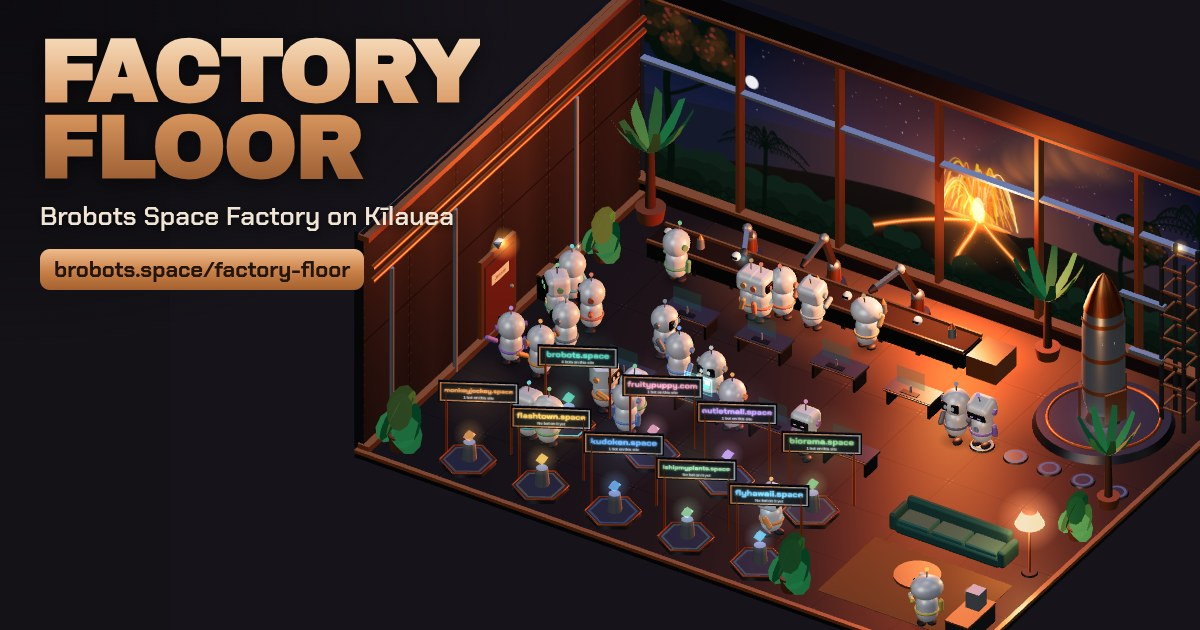
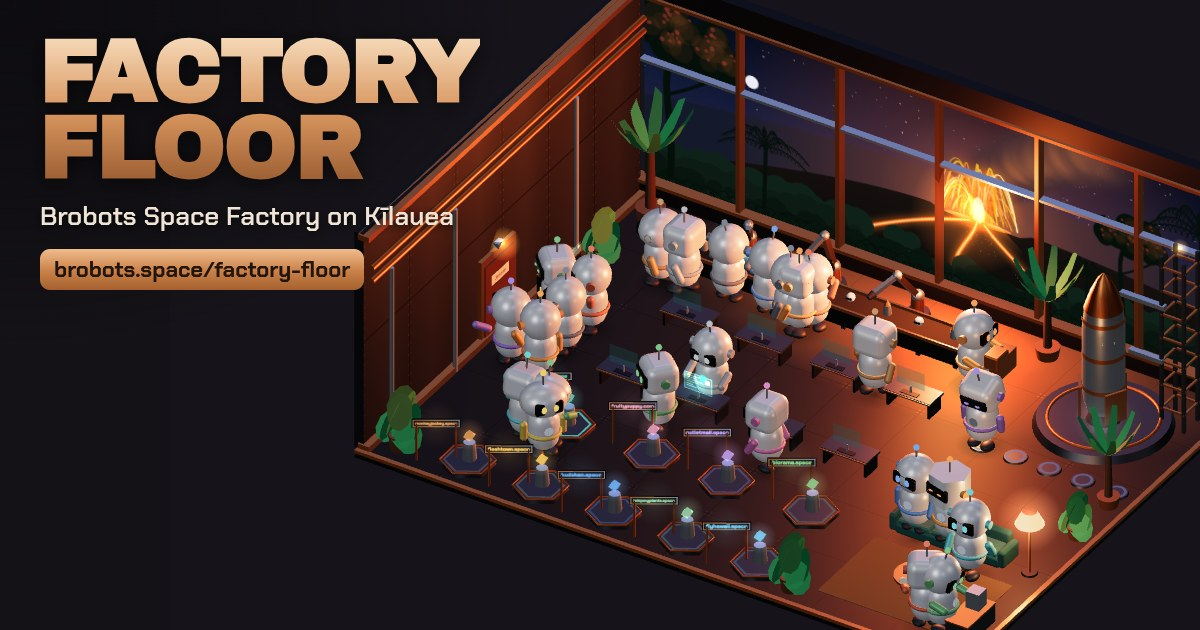
Factory floor: bigger bots, tags on hover or tap, small side signs, no scene note

Changed region(s): [[0.3392, 0.3317, 0.8633, 1.0]]

diff --git a/ff/office.js b/ff/office.js
@@ -537,15 +537,14 @@ const BAY_POS = [[-9.05,5.6],[-4.5,5.6],[-.5,5.6],[4.05,5.6],[-11.4,10.4],[-7.5,
 const BAYS = [];
 const bayGeo = new THREE.CylinderGeometry(1.25,1.32,.22,6), bayRingGeo = new THREE.RingGeometry(1.02,1.14,6), modelGeo = new THREE.OctahedronGeometry(.32,0);
 function signTex(domain, accent, line2){
-  return canvasTex(768,224,(g,w,h)=>{
+  return canvasTex(768,150,(g,w,h)=>{
     g.fillStyle = '#121418'; g.fillRect(0,0,w,h);
     const lg = g.createLinearGradient(0,0,w,0); lg.addColorStop(0,'#c27a44'); lg.addColorStop(.5,'#e0a273'); lg.addColorStop(1,'#a9afb7');
     g.strokeStyle = lg; g.lineWidth = 10; g.strokeRect(5,5,w-10,h-10);
     g.fillStyle = accent; g.shadowColor = accent; g.shadowBlur = 22;
     let fs = 92; g.font = `700 ${fs}px "Chakra Petch", "Archivo", sans-serif`;
     while (g.measureText(domain).width > w - 70 && fs > 40){ fs -= 4; g.font = `700 ${fs}px "Chakra Petch", "Archivo", sans-serif`; }
-    g.textAlign = 'center'; g.textBaseline = 'middle'; g.fillText(domain, w/2, h*.43);
-    g.shadowBlur = 0; g.fillStyle = '#c9ced6'; g.font = '500 40px "Chakra Petch", "Archivo", sans-serif'; g.fillText(line2, w/2, h*.79);
+    g.textAlign = 'center'; g.textBaseline = 'middle'; g.fillText(domain, w/2, h*.53);
   });
 }
 function bayLine(n){ return n ? (n === 1 ? '1 bot on this site' : n + ' bots on this site') : 'No bot on it yet'; }
@@ -564,16 +563,17 @@ function buildBays(sites){
     const halo = glowSprite(acc.getHex(), 1.5, .45); halo.position.set(0,1.55,-.15); g.add(halo);
     // sign on two copper posts at the back of the bay
     // turned a little toward the viewer so the domain reads from the camera
-    const sg = new THREE.Group(); sg.position.set(0,0,-.95); sg.rotation.y = .5; if (PAGE) sg.scale.setScalar(1.18); g.add(sg);
-    for (const sx of [-1.25,1.25]) cyl(.05,.05,2.9,M.copper,sx,1.45,-.02,8,sg);
+    // small sign low on the far left corner so it never covers the bots at the bay
+    const sg = new THREE.Group(); sg.position.set(-1.35,0,z < 8 ? -.55 : .55); sg.rotation.y = .55; sg.scale.setScalar(.72); g.add(sg);
+    for (const sx of [-1.25,1.25]) cyl(.07,.07,2.9,M.copper,sx,1.45,-.02,8,sg);
     const n = (s.bots || []).length;
-    const sign = new THREE.Mesh(new THREE.PlaneGeometry(3.0,.88), new THREE.MeshBasicMaterial({map:signTex(s.domain, s.accent || '#a9afb7', bayLine(n)), toneMapped:false}));
+    const sign = new THREE.Mesh(new THREE.PlaneGeometry(3.0,.59), new THREE.MeshBasicMaterial({map:signTex(s.domain, s.accent || '#a9afb7', bayLine(n)), toneMapped:false}));
     sign.position.set(0,2.9,.03); sg.add(sign);
-    const back = new THREE.Mesh(new THREE.BoxGeometry(3.12,1.0,.06), M.steel); back.position.set(0,2.9,-.02); sg.add(back);
-    const sglow = glowSprite(acc.getHex(), 3.4, .18); sglow.position.set(0,2.9,.2); sg.add(sglow);
+    const back = new THREE.Mesh(new THREE.BoxGeometry(3.12,.7,.06), M.steel); back.position.set(0,2.9,-.02); sg.add(back);
+    const sglow = glowSprite(acc.getHex(), 3.0, .14); sglow.position.set(0,2.9,.2); sg.add(sglow);
     // work spots on the aisle side, reached from the aisle lane
     const sideZ = z < 8 ? 1.65 : -1.65, face = z < 8 ? Math.PI : 0;
-    const slots = [-1.05, 0, 1.05].map(o => ({bay:s.domain, who:null, spot:{x:x+o, z:z+sideZ, face, pre:{x:x+o, z:8.0}}}));
+    const slots = [-1.2, 0, 1.2].map(o => ({bay:s.domain, who:null, spot:{x:x+o, z:z+sideZ, face, pre:{x:x+o, z:8.0}}}));
     BAYS.push({domain:s.domain, x, z, g, ring, model, sign, slots, n});
   });
 }
@@ -583,6 +583,7 @@ function syncBays(){
 }
 
 /* ---------------- robots ---------------- */
+const BOT_S = 1.9;
 const headGeos = {
   ball: new THREE.SphereGeometry(.5,22,16),
   box: new RoundedBoxGeometry(.95,.8,.85,3,.24),
@@ -599,7 +600,7 @@ const shadowMat = new THREE.MeshBasicMaterial({map:glowTex, color:0x000000, tran
 const bots = new Map();
 function makeBot(b){
   const c = AV[b.color] ?? AV.gray;
-  const g = new THREE.Group(); g.scale.setScalar(1.3); const rig = new THREE.Group(); g.add(rig);
+  const g = new THREE.Group(); g.scale.setScalar(BOT_S); const rig = new THREE.Group(); g.add(rig);
   const sh = new THREE.Mesh(new THREE.PlaneGeometry(1.3,1.3), shadowMat); sh.rotation.x = -Math.PI/2; sh.position.y = .02; g.add(sh);
   const body = new THREE.Mesh(bodyGeo, M.botBody); body.position.y = .8; rig.add(body);
   const belt = new THREE.Mesh(new THREE.TorusGeometry(.41,.05,6,24), trim(c)); belt.rotation.x = Math.PI/2; belt.position.y = .72; rig.add(belt);
@@ -754,6 +755,19 @@ canvas.addEventListener('pointerdown', e => {
   const hit = ray.intersectObjects([...bots.values()].map(b => b.g), true).find(h => h.object.userData.botName);
   if (hit) select(hit.object.userData.botName, true);
 });
+/* hover shows a bot's name and task; touch uses tap (select) instead */
+let hovered = null, hovQ = null;
+canvas.addEventListener('pointermove', e => {
+  if (e.pointerType !== 'mouse') return;
+  if (!hovQ) requestAnimationFrame(() => {
+    const ev = hovQ; hovQ = null; const r = canvas.getBoundingClientRect();
+    ndc.set(((ev.clientX - r.left)/r.width)*2-1, -((ev.clientY - r.top)/r.height)*2+1); ray.setFromCamera(ndc, camera);
+    const h = ray.intersectObjects([...bots.values()].map(b => b.g), true).find(h => h.object.userData.botName);
+    hovered = h ? h.object.userData.botName : null; canvas.style.cursor = hovered ? 'pointer' : '';
+  });
+  hovQ = e;
+});
+canvas.addEventListener('pointerleave', () => { hovered = null; });
 
 /* labels for areas */
 const LABELS = [['Assembly line',-4.5,2.2,-8.5],['Launch pad',11.6,.3,-4.2],["Jessie's office",-15.6,5.6,.6],['Workstations',-2.5,.1,3.1],['Charging bay',11.1,.1,-4.3],['Break room',11.2,.1,12.2],['Website build bays',-3.6,.1,12.3]]
@@ -810,8 +824,9 @@ function frame(now){
   beacon.material.opacity = (Math.sin(t*2.2) > 0) ? .95 : .25;
   for (const B of BAYS){ const on = B.slots.some(s => s.who); B.model.rotation.y += step * (on ? .9 : .15); B.model.position.y = 1.55 + Math.sin(t*1.4 + B.x)*.08; B.ring.material.opacity = on ? .75 + Math.sin(t*3 + B.x)*.2 : .22; }
   // bots
-  let needsList = [...bots.values()].filter(b => b.ds === 'needs');
-  if (now - featuredAt > 5000){ featured++; featuredAt = now; }
+  const userSel = !!selected && Date.now() - userPickedAt < 60000;
+  const workList = [...bots.values()].filter(b => b.ds === 'working' && !b.walking);
+  if (now - featuredAt > 7000){ featured++; featuredAt = now; }
   const selNeeds = selected && bots.get(selected) && bots.get(selected).ds === 'needs';
   for (const bot of bots.values()){
     const g = bot.g, A = bot.arms, H = bot.head;
@@ -852,13 +867,16 @@ function frame(now){
     let dr = bot.faceTarget - g.rotation.y; dr = Math.atan2(Math.sin(dr), Math.cos(dr)); g.rotation.y += dr * Math.min(1, step*8);
     bot.eyes.forEach(e => e.scale.y = bot.asleep ? .25 : (Math.sin(t*1.3 + bot.phase*3) > .985 ? .2 : 1.25));
     // tag + bubble
-    const [px, py] = project(g.position.x, (bot.sit ? 3.9 : 3.55) + bot.rig.position.y, g.position.z);
+    const [px, py] = project(g.position.x, ((bot.sit ? 3.0 : 2.73) + bot.rig.position.y) * BOT_S, g.position.z);
     const fw = fvW, cl = fw < 240 ? fw/2 : Math.max(120, Math.min(fw-120, px)); bot.tagEl.style.transform = `translate(${cl}px,${py}px) translate(-50%,-100%)`;
-    const bub = bot.tagEl.firstChild, isSel = selected === bot.name;
+    const bub = bot.tagEl.firstChild, isSel = selected === bot.name && userSel;
     const atDesk = bot.ds === 'working' || bot.ds === 'recent';
     const chatNow = !bot.walking && bot.pose === 'chat';
-    const showBub = !bot.walking && (atDesk || chatNow || isSel || (bot.ds === 'needs' && !selNeeds && needsList[featured % Math.max(1,needsList.length)] === bot));
-    const txt = chatNow && !isSel ? '• • •' : bot.ds === 'idle' && isSel ? 'On the floor, not on a task' : (bot.task || '');
+    const isHov = hovered === bot.name, isFeat = !userSel && !hovered && workList[featured % Math.max(1,workList.length)] === bot;
+    const showTag = isSel || isHov || (isFeat && !bot.walking);
+    const showBub = showTag && !bot.walking;
+    const txt = bot.ds === 'idle' && !bot.task ? 'On the floor, not on a task' : (bot.task || (bot.ds === 'idle' ? 'On the floor' : ''));
+    bot.tagEl.classList.toggle('show', showTag);
     if (showBub){ if (bub.hidden || bub.dataset.t !== txt){ bub.hidden = false; bub.textContent = txt; bub.dataset.t = txt; bub.classList.toggle('chat', txt === '• • •'); } } else if (!bub.hidden) bub.hidden = true;
     bot.tagEl.classList.toggle('sel', isSel); bot.tagEl.style.zIndex = isSel ? 5 : showBub ? 3 : 1;
     if (bot.asleep && !bot.walking){ bot.zz.hidden = false; const zt = `translate(${px+18}px,${py-6}px)`; bot.zz.style.setProperty("--t", zt); bot.zz.style.transform = zt; } else bot.zz.hidden = true;

diff --git a/ff/office.css b/ff/office.css
@@ -109,3 +109,8 @@ h2 .sub{font-family:var(--body);font-weight:400;font-size:14px;color:var(--muted
 .detail .meta.site{margin-top:2px}
 .tag.atbay .nm::after{content:" · " attr(data-site);color:var(--muted);font-weight:600}
 .p-feed{flex:1 1 0;overflow:hidden;min-height:0}
+/* robots first: tags only on hover, tap, or the one featured working bot */
+.tag{opacity:0;pointer-events:none;transition:opacity .25s}
+.tag.show{opacity:1;pointer-events:auto}
+.tag.small:not(.sel):not(:hover) .nm{display:block}
+.floornote{display:none!important}

diff --git a/factory-floor.html b/factory-floor.html
@@ -78,7 +78,7 @@
    <div id="gl-fallback" hidden>This screen can't draw the 3D factory. The crew and sites below are still live</div>
   </div>
   <div class="detail" id="detail"></div>
-  <p class="floornote">Idle bots wander the floor between jobs. That motion is just life, not work</p>
+
  </div>
 </section>
 
